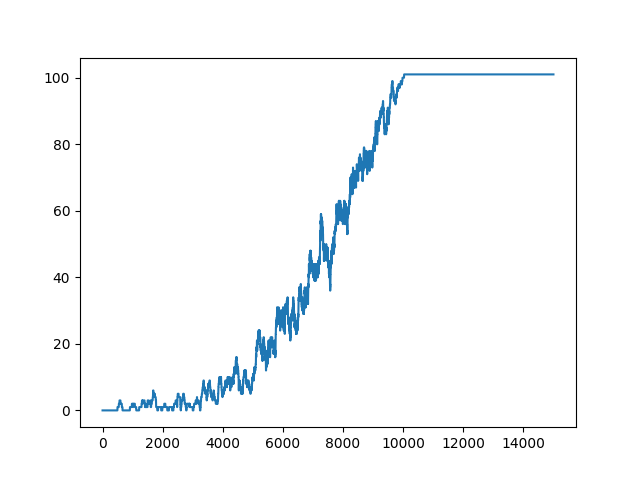
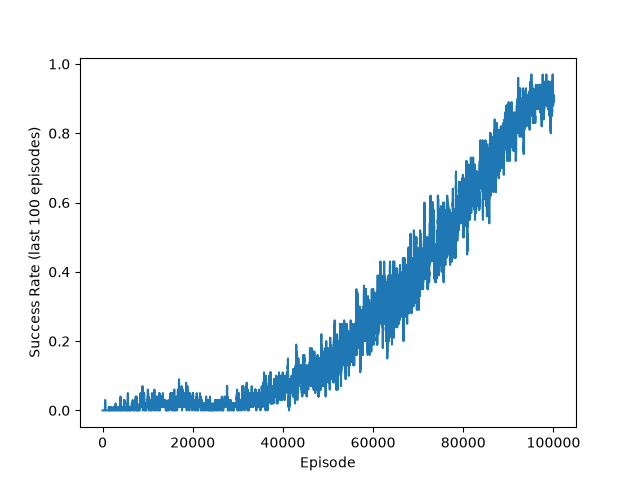
polished

diff --git a/reinforcement/src/frozen.py b/reinforcement/src/frozen.py
@@ -10,15 +10,15 @@
 # https://gymnasium.farama.org/environments/toy_text/frozen_lake/
 
 import gymnasium as gym
+from gymnasium.spaces import Discrete
 import numpy as np
 import pandas as pd
 import matplotlib.pyplot as plt
 import pickle
+import argparse
 
-# global random number generator with seed that guarantees victory
+# Random seed used to make training reproducible
 rngseed = 432
-RNG = np.random.default_rng(seed=rngseed)
-
 
 def _run_simulation(n_episodes:int, 
                     is_slippery:bool, 
@@ -33,27 +33,24 @@ def _run_simulation(n_episodes:int,
     Parameters:
      * n_episodes:  Number of iterations to train the model. Higher numbers
                     provide more learning but they take longer.
-     * is_slippery: Adds a random element to the game. The agent has an 80% of
-                    moving in the intended direction but there's still a 20%
-                    chance that it 'slips' and goes a different way.
+     * is_slippery: Adds a random element to the game. The agent has an 33% of
+                    moving in the intended direction but there's a 66% chance
+                    that it 'slips' and goes a perpindicular direction.
      * training_mode: Determines whether the model should train by creating
                     and saving a new Q-Table or make use of an existing model.
-     * render_mode: Selects whether to show and animate the episodse or run
-                    them all in the background. If `training_mode` is True,
-                    this parameter is usually False (it's **much** faster).
-                    But if `training_mode` is False, the user should decide
-                    whether they want to visually see the results or just use
-                    the text calculations.
      * file_name:   Saves the trained model under this file name (relative to
                     the working directory).
 
     Returns: The Q-Table as a numpy array
     '''
 
-    # Converts render_mode True/False to terms that gymnasium understands
+    RNG = np.random.default_rng(seed=rngseed)
+
+    # Converts render_mode using terms that gymnasium understands
     render_mode = None if training_mode else 'human'
-    env = gym.make('FrozenLake-v1', 
-                   map_name="8x8", 
+
+    # Create the gym environment
+    env = gym.make('FrozenLake8x8-v1', 
                    is_slippery=is_slippery, 
                    render_mode=render_mode)
     env.action_space.seed(rngseed)
@@ -61,6 +58,8 @@ def _run_simulation(n_episodes:int,
     # Training mode starts with an empty Q-Table whereas rollout mode uses
     # a pretrained model that was saved to disk
     if training_mode:
+        assert isinstance(env.observation_space, Discrete)
+        assert isinstance(env.action_space, Discrete)
         q_table = np.zeros((env.observation_space.n, env.action_space.n))
     else:
         with open(file_name, 'rb') as fin:
@@ -70,24 +69,25 @@ def _run_simulation(n_episodes:int,
     # epsilon-greedy policy that starts with 100% exploration and slowly moves
     # to 100% exploitation (i.e., experience) but only if there are enough
     # episodes to reach epsilon==0 at the given decay rate.
-    alpha = 0.9 # learning rate (very high)
-    gamma = 0.9 # discount rate (mid-range)
-    epsilon = 1 # start at 100% exploration
-    epsilon_decay_rate = 0.0001
+    alpha = 0.1        # learning rate
+    gamma = 0.99       # discount rate
+    epsilon = 1        # start at 100% exploration
+    epsilon_min = 0.05 # never completely stop learning
+    epsilon_decay_rate = 0.00001
 
     # Rewards are overly simplistic for this 8x8 environment. If elf reaches
-    # the final square in the bottom-left corner (square #63), then the agent
+    # the final square in the bottom-right corner (square #63), then the agent
     # receives a reward of 1. Every other state/action receives a score of 0.
     rewards_history = np.zeros(n_episodes)
 
     # Iterate through each episode, one a time.
     for i in range(n_episodes):
-        state, info = env.reset(seed=rngseed)
+        state, info = env.reset(seed=rngseed if training_mode and i == 0 else None)
         terminated = False
         truncated = False
 
-      # Run a single episode until it ends.
-      while not terminated and not truncated:
+        # Run a single episode until it ends.
+        while not terminated and not truncated:
 
             # In training mode, we use epislon greedy to choose between a 
             # random action and a learned action.
@@ -107,18 +107,25 @@ def _run_simulation(n_episodes:int,
             # complete. If we're in training mode, we update the Q-Table.
             next_state, reward, terminated, truncated, info = env.step(action)
             if training_mode:
-                tempdif = gamma * np.max(q_table[next_state,:])
-                learned = alpha * (reward + tempdif - q_table[state,action])
-                q_table[state,action] = q_table[state,action] + learned
+                future_value = 0
+                if not terminated:
+                    future_value = gamma * np.max(q_table[next_state,:])
+                learned = alpha * (float(reward) + future_value - q_table[state,action])
+                q_table[state, action] += learned
             state = next_state
+
+        # Report the outcome of each rollout episode
+        if not training_mode:
+            if reward == 1:
+                print(f"Episode {i+1}: SUCCESS (reached the goal)")
+            elif truncated:
+                print(f"Episode {i+1}: TRUNCATED (step limit reached)")
+            else:
+                print(f"Episode {i+1}: FAILURE (fell into a hole)")
 
         # Update the epsilon-greedy algorithm so that we gradually change from
         # exploration to exploitation (learning).
-        epsilon = max(epsilon - epsilon_decay_rate, 0)
-        
-        # After finishing training, lower the learning rate for stability
-        if epsilon==0:
-            alpha = 0.0001
+        epsilon = max(epsilon - epsilon_decay_rate, epsilon_min)
 
         # Save the last reward value and only the last reward value. It will
         # have a value of 1 if we ended on square #63. Or, it will have a
@@ -127,24 +134,32 @@ def _run_simulation(n_episodes:int,
         rewards_history[i] = reward
 
         # Helpful debug output
-        if training_mode and i % 1000 == 0:
-            if i == 0:
-                print(f'Finished trianing episode {i+1:>5}...')
-            else:
-                print(f'Finished trianing episode {i:>5}...')
+        if training_mode and (i + 1) % 10000 == 0:
+            print(f'Finished training episode {i+1:>6}...')
 
     # Release all resources for this environment
     env.close()
+
+    if not training_mode:
+        wins = int(np.sum(rewards_history))
+        success_rate = wins / n_episodes
+        print(f"Rollout: {wins}/{n_episodes} wins ({success_rate:.1%})")
 
     # Plot the reward results for the last 100 episodes. Since the reward is
     # either 0 or 1 for any given episode, the sum of the last 100 episodes
     # will roughly correspond to the win rate for the agent.
     if training_mode:
-        last100_rewards = np.zeros(n_episodes)
-        for i in range(n_episodes):
-            last100_rewards[i] = np.sum(rewards_history[max(0, i-100):(i+1)])
+        last100_rewards = (
+            pd.Series(rewards_history).
+            rolling(window=100, min_periods=1).
+            mean()
+        )
+        plt.figure()
         plt.plot(last100_rewards)
+        plt.ylabel("Success Rate (last 100 episodes)")
+        plt.xlabel("Episode")
         plt.savefig(f'{file_name}.png')
+        plt.close()
 
     # Save the Q-Table to 
     if training_mode:
@@ -170,33 +185,34 @@ def train(n_episodes:int = 10000,
     Parameters:
      * n_episodes:  Number of iterations to train the model. Higher numbers
                     provide more learning but they take longer.
-     * is_slippery: Adds a random element to the game. The agent has an 80% of
-                    moving in the intended direction but there's still a 20%
-                    chance that it 'slips' and goes a different way.
+     * is_slippery: Adds a random element to the game. The agent has an 33% of
+                    moving in the intended direction but there's a 66% chance
+                    that it 'slips' and goes a perpindicular direction.
      * file_name:   Saves the trained model under this file name (relative to
                     the working directory).
 
     Returns: The Q-Table as a numpy array
     '''
-    return _run_simulation(n_episodes, is_slippery, True, False, file_name)
+    return _run_simulation(n_episodes, is_slippery, True, file_name)
 
 
-def rollout(is_slippery:bool = True, 
+def rollout(n_episodes:int = 5,
+            is_slippery:bool = True, 
             file_name:str = "frozen_lake8x8.pkl"):
     '''
     Visualizes one episode in the environment with a fully trained Q-Learning
     model.
 
     Parameters
-     * is_slippery: Adds a random element to the game. The agent has an 80% of
-                    moving in the intended direction but there's still a 20%
-                    chance that it 'slips' and goes a different way.
+     * is_slippery: Adds a random element to the game. The agent has an 33% of
+                    moving in the intended direction but there's a 66% chance
+                    that it 'slips' and goes a perpindicular direction.
      * file_name:   Loads the trained model from a Pickle file with this file
                     name (relative to the working directory).
 
     Returns: The Q-Table as a numpy array
     '''
-    return _run_simulation(1, is_slippery, False, True, file_name)
+    return _run_simulation(n_episodes, is_slippery, False, file_name)
 
 
 def visualize_policy(q_table:np.ndarray, map_shape:tuple=(8, 8)):
@@ -225,7 +241,31 @@ def visualize_policy(q_table:np.ndarray, map_shape:tuple=(8, 8)):
 
 
 if __name__ == '__main__':
-    q_table = train(15000, is_slippery=False)
-    visualize_policy(q_table)
-    input("Press <ENTER> to rollout the model")
-    rollout(is_slippery=False)
+    parser = argparse.ArgumentParser(
+        description='Train or run a Q-learning agent on Frozen Lake (8x8).'
+    )
+    parser.add_argument('--train', action='store_true',
+                        help='Train and save a new agent (default: run saved agent).')
+    parser.add_argument('--slippery', action=argparse.BooleanOptionalAction,
+                        default=False,
+                        help='Enable or disable slipping (default: slippery).')
+    parser.add_argument('--file', default='frozen_lake8x8.pkl',
+                        help='Q-table filename to save/load.')
+    parser.add_argument('--episodes', type=int, default=None,
+                        help='Number of episodes (default: 100000 training, 5 rollout).')
+    args = parser.parse_args()
+
+    if args.episodes is not None and args.episodes <= 0:
+        parser.error('--episodes must be a positive integer')
+
+    if args.train:
+        episodes = args.episodes if args.episodes is not None else 100000
+        q_table = train(episodes, args.slippery, args.file)
+        visualize_policy(q_table)
+    else:
+        with open(args.file, 'rb') as fin:
+            q_table = pickle.load(fin)
+        visualize_policy(q_table)
+        print()
+        episodes = args.episodes if args.episodes is not None else 5
+        rollout(episodes, args.slippery, args.file)
